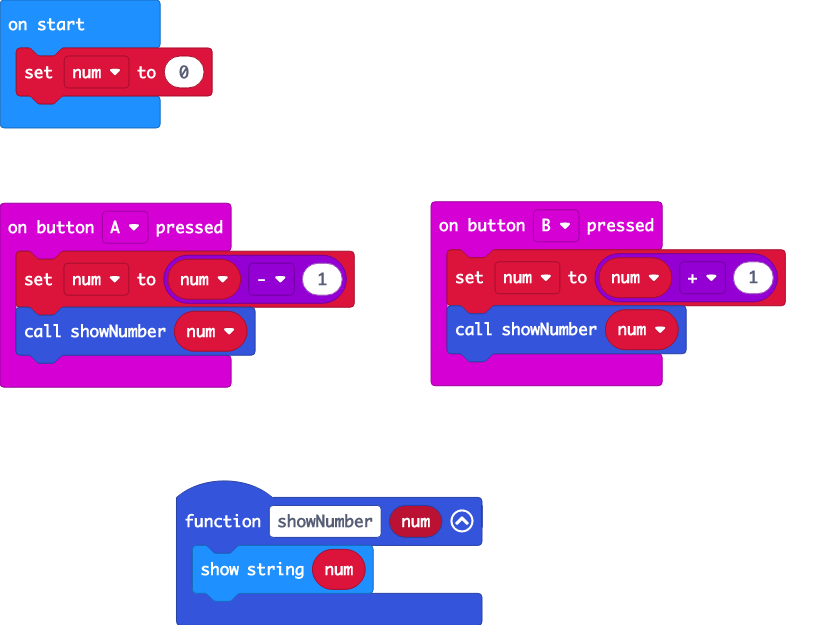
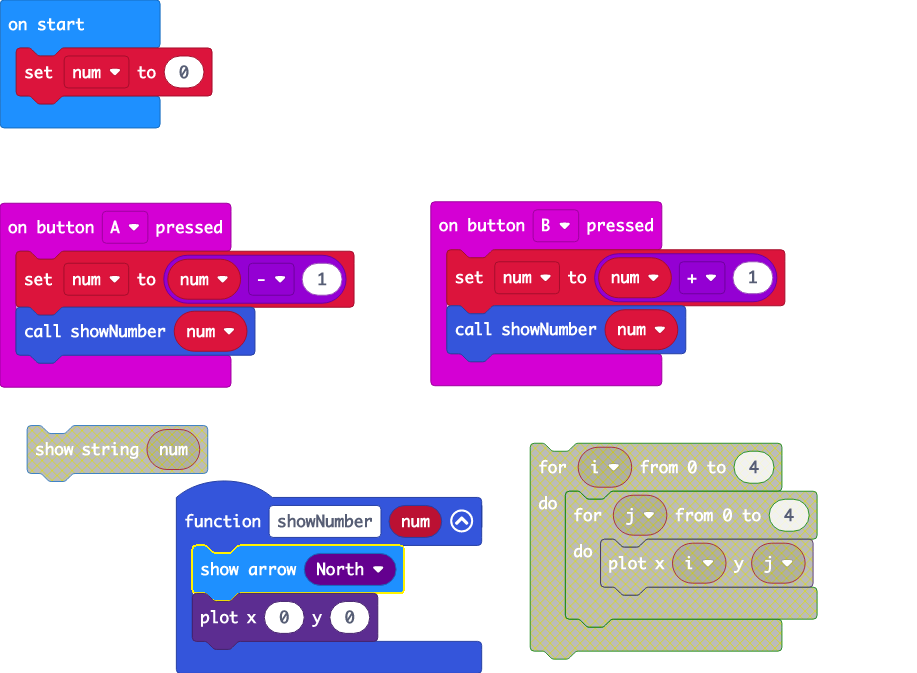
Update main.blocks, main.ts

diff --git a/main.ts b/main.ts
@@ -7,7 +7,8 @@ input.onButtonPressed(Button.B, function () {
     showNumber(num)
 })
 function showNumber (num: number) {
-    basic.showString("" + (num))
+    basic.showArrow(ArrowNames.North)
+    led.plot(0, 0)
 }
 let num = 0
 num = 0
